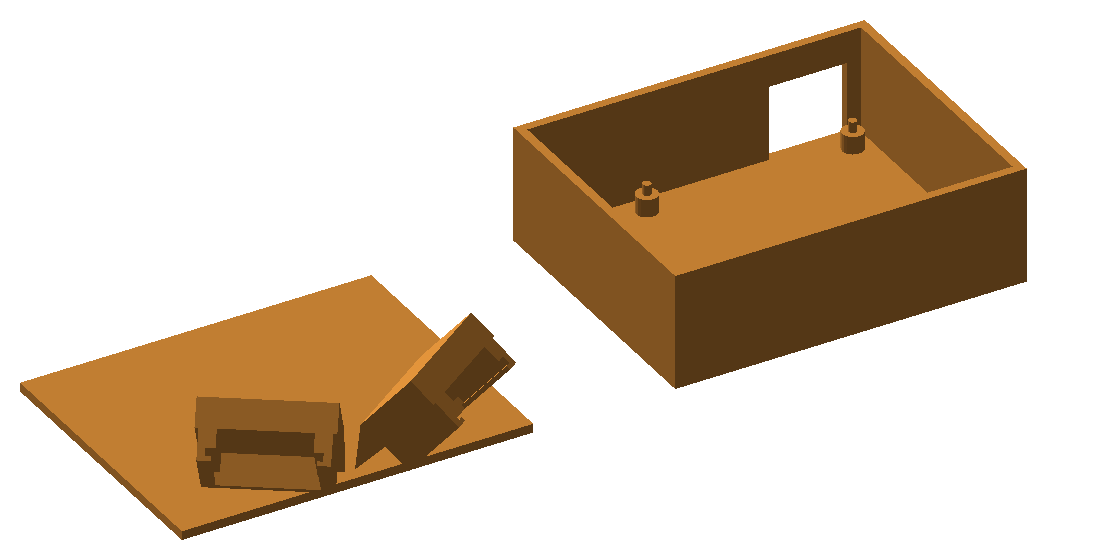
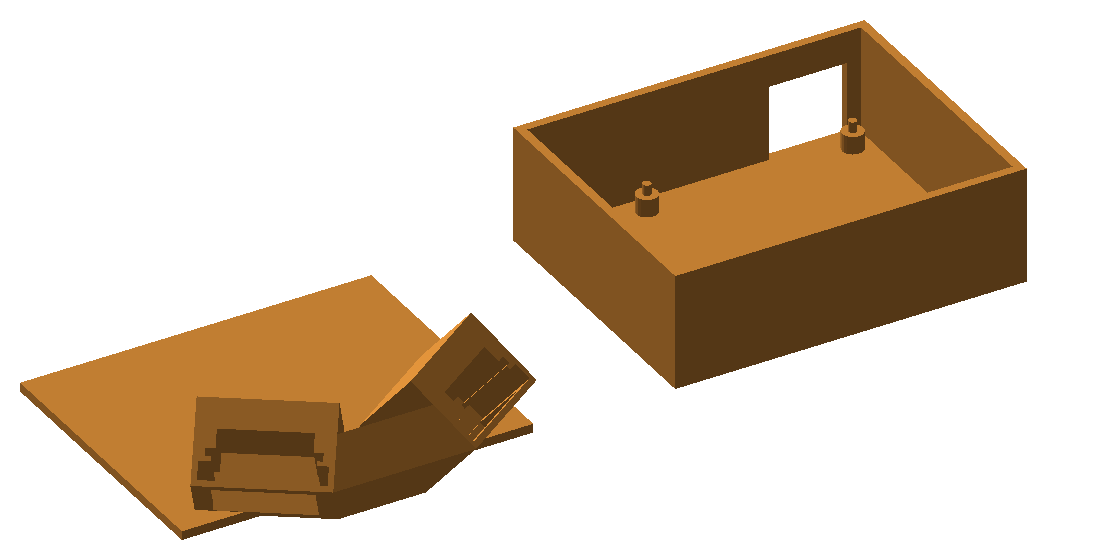
2.0 jackpot box: cameras hidden behind a black HDPE front
Each camera gets a window frame 5 mm in front, closed in on the sides and bottom, with a bridge
between the two so one strip of thin black HDPE covers the whole front. Hardware page: black front,
power (Pi adapter in the table's power strip), black PETG print.

Claude-Session: https://claude.ai/code/session_011rT47w4hPsBv6bken3dNmM

Changed region(s): [[0.1545, 0.6375, 0.4945, 0.9411]]

diff --git a/inHouseEstimator/player-tracker-hardware.html b/inHouseEstimator/player-tracker-hardware.html
@@ -61,10 +61,11 @@ ul{margin:6px 0 0;padding-left:20px}
       <li><b>Thermal cameras (2):</b> Waveshare MLX90640-D110 (32&times;24, 110&deg;, board 28 &times; 16 mm), <a href="https://www.amazon.com/MLX90640-Interface-Compatible-Raspberry-MLX90640-D110/dp/B07ZMP7N2P" target="_blank" rel="noopener">Amazon</a>. Order the <b>D110</b>, not the D55.</li>
       <li><b>Wall-eyed:</b> each camera sits on its own slope of the lid, turned <b>35&deg; out</b> from straight ahead (70&deg; apart) and tilted <b>40&deg; down</b>, so together they see the whole half circle of seats with a little overlap at the middle seat.</li>
       <li><b>Radar:</b> drawn for the Hi-Link LD2450 (44 &times; 15 mm board). It clips to the inside of the front wall and looks out through the plastic. Plastic is fine for radar; metal isn't.</li>
-      <li><b>Board:</b> Raspberry Pi 3B drops onto 4 pegs in the floor. Its power plug lines up with a slot in the back wall for the cord.</li>
+      <li><b>Board and power:</b> Raspberry Pi 3B drops onto 4 pegs in the floor. Its power plug lines up with a slot in the back wall; the cord goes to a plug-in adapter (the Pi's own power supply) in the table's power strip.</li>
       <li><b>Wiring:</b> both cameras use the same I2C address, so run them through one of your TCA9548A switch boards (or a second I2C bus on the Pi). Camera cables go through the slot in the lid between the two cameras. The radar talks over the Pi's serial pins.</li>
       <li><b>Cameras slide in:</b> each board slides down into its cradle from the top and rests on a stop at the bottom, with a 5 mm gap behind it for the plug and wires.</li>
-      <li><b>Size:</b> box about 3.9 &times; 3.1 &times; 1.3 in (99 &times; 79 &times; 33 mm); about 3.5 in (90 mm) tall with the lid on. Box and lid print side by side, no supports (the camera slopes overhang about 40&deg;). PETG or PLA.</li>
+      <li><b>Hidden behind black:</b> each camera sits behind a window frame, closed in on the sides and bottom, with a bridge joining the two frames. Glue one strip of thin black HDPE sheet (about 0.5 mm, cuts with scissors) across both frames and the bridge. Body heat goes through it, so the cameras still see, but nobody can see them. Don't swap it for tinted plastic, acrylic or glass; those block the heat. The tops stay open (facing up and back) so the boards slide in and the wires come out.</li>
+      <li><b>Size:</b> box about 3.9 &times; 3.1 &times; 1.3 in (99 &times; 79 &times; 33 mm); about 3.7 in (95 mm) tall with the lid on. Box and lid print side by side, no supports (the camera slopes overhang about 40&deg;). Print it in black PETG so it all reads as one black box; the radar sees through it.</li>
       <li><b>Mounting:</b> no screws into the sign. A strip of 3M VHB tape holds the box on top of the jackpot board, and a little double-sided tape (or a dab of hot glue) holds the lid on.</li>
       <li><b>Sizes are starting guesses.</b> Measure the real boards before printing. The angles are a starting point; fine-tune them once you see the live heat image on a real table.</li>
     </ul>

diff --git a/inHouseEstimator/models/jackpot-box-gen.py b/inHouseEstimator/models/jackpot-box-gen.py
@@ -48,6 +48,7 @@ def frame(sx):
   return n,u,v
 def boxf(c,n,u,v,a0,a1,b0,b1,c0,c1):   # cuboid in face frame: v from a0..a1, u from b0..b1, n from c0..c1
   P.append(np.array([c+v*a+u*b+n*cc for a in (a0,a1) for b in (b0,b1) for cc in (c0,c1)]))
+HOOD_IN=[]
 for sx in (-1,1):
   n,u,v=frame(sx)
   c=np.array([LX+sx*24,y1-2,T+16.0])          # centre of the face plate
@@ -68,6 +69,17 @@ for sx in (-1,1):
     boxf(c,n,u,v,min(e,e-s*2.5),max(e,e-s*2.5),-FH/2,FH/2,0,GAP)               # ledge the board rests on
     boxf(c,n,u,v,min(e,e-s*1.5),max(e,e-s*1.5),-FH/2,FH/2,GAP+BT+0.6,GAP+BT+0.6+1.2)  # lip over the board's front edge
   boxf(c,n,u,v,-BW_/2-2,BW_/2+2,-FH/2,-FH/2+2,0,GAP+BT+0.6+1.2)                # bottom stop
+  # Hood: a window frame 5 mm in front of the camera, closed in on the sides and bottom. The black HDPE sheet
+  # (about 0.5 mm) is glued across the frames; heat goes through it, so the cameras can't be seen. Top stays open
+  # (faces up and back) so the boards slide in and the wires come out.
+  HD=GAP+BT+0.6+1.2+5; FT=1.6; OW_,OH_=13,8          # frame plane, frame thickness, half the window opening
+  for a0,a1 in ((-FW/2,-OW_),(OW_,FW/2)): boxf(c,n,u,v,a0,a1,-FH/2,FH/2,HD,HD+FT)      # frame sides
+  for b0,b1 in ((-FH/2,-OH_),(OH_,FH/2)): boxf(c,n,u,v,-FW/2,FW/2,b0,b1,HD,HD+FT)      # frame top and bottom
+  for a0,a1 in ((-FW/2,-FW/2+1.5),(FW/2-1.5,FW/2)): boxf(c,n,u,v,a0,a1,-FH/2,FH/2,0,HD+FT)   # side skirts
+  boxf(c,n,u,v,-FW/2,FW/2,-FH/2,-FH/2+1.5,0,HD+FT)                                     # bottom skirt
+  inner=min((FW/2,-FW/2),key=lambda a:abs((c+v*a)[0]-LX))                             # the side toward the middle
+  HOOD_IN.append([c+v*inner+u*b+n*k for b in (-FH/2,FH/2) for k in (0,HD+FT)])
+P.append(np.array(HOOD_IN[0]+HOOD_IN[1]))   # bridge between the two hoods, so the sheet runs across the whole front
 P=Pbox+L
 # ---- convex hull (brute force, small point sets) -> triangles
 def hull(pts):
